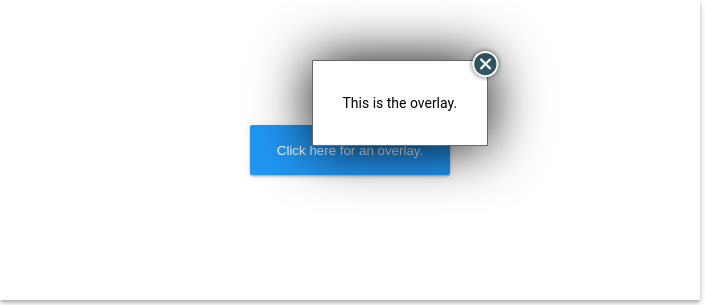
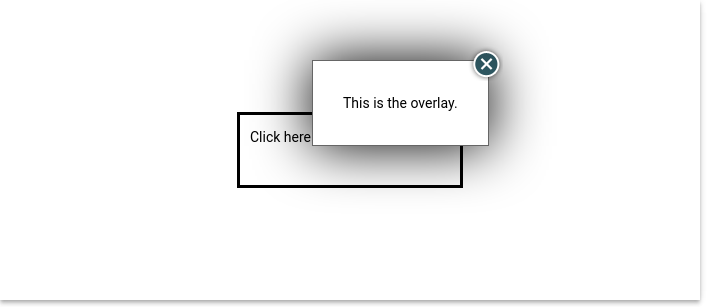
updated overlay demo

diff --git a/example/overlay_demo.py b/example/overlay_demo.py
@@ -22,9 +22,14 @@ class ExampleFrame(gui.VBox):
         self.row1 = gui.HBox()
         self.append(self.row1)
 
-        # clicking this button will open the overlay
+        # clicking this label will open the overlay
         # it can be any clickable widget
-        self.trigger_widget = gui.Button('Click here for an overlay.', width=200, height=50, margin='10px')
+        self.trigger_widget = gui.Label('Click here for an overlay.', width=200, height=50)
+
+        # make it look a little nicer
+        self.trigger_widget.style['padding']="10px 10px 10px 10px"
+        self.trigger_widget.style['border']="solid"
+
         self.row1.append(self.trigger_widget)
 
         # build the overlay
